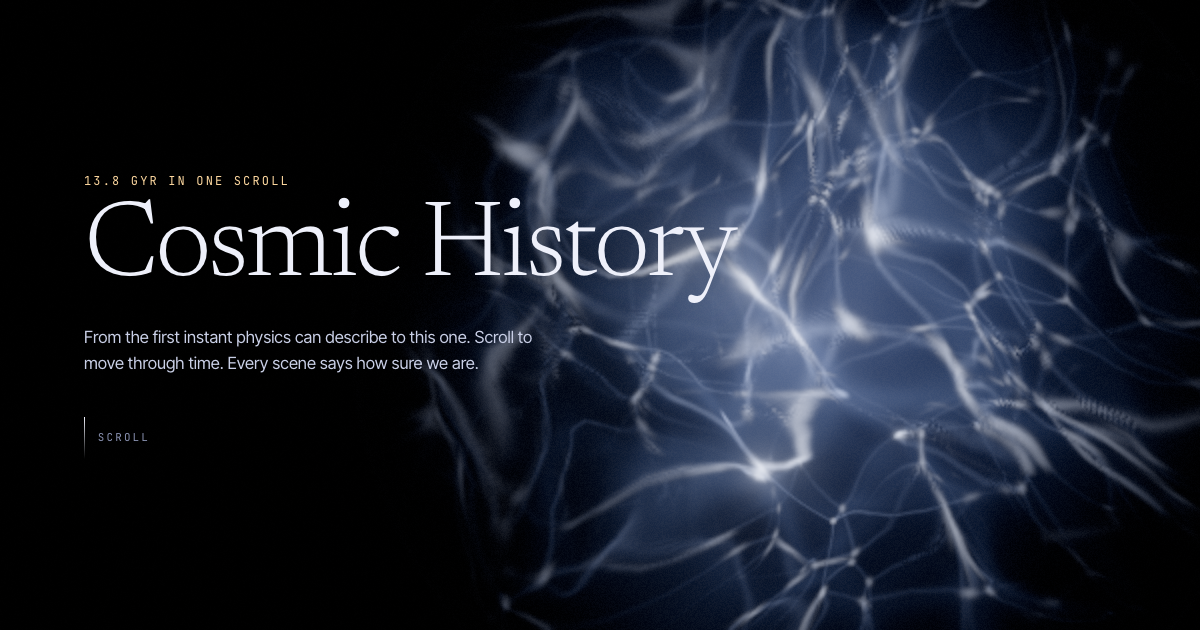
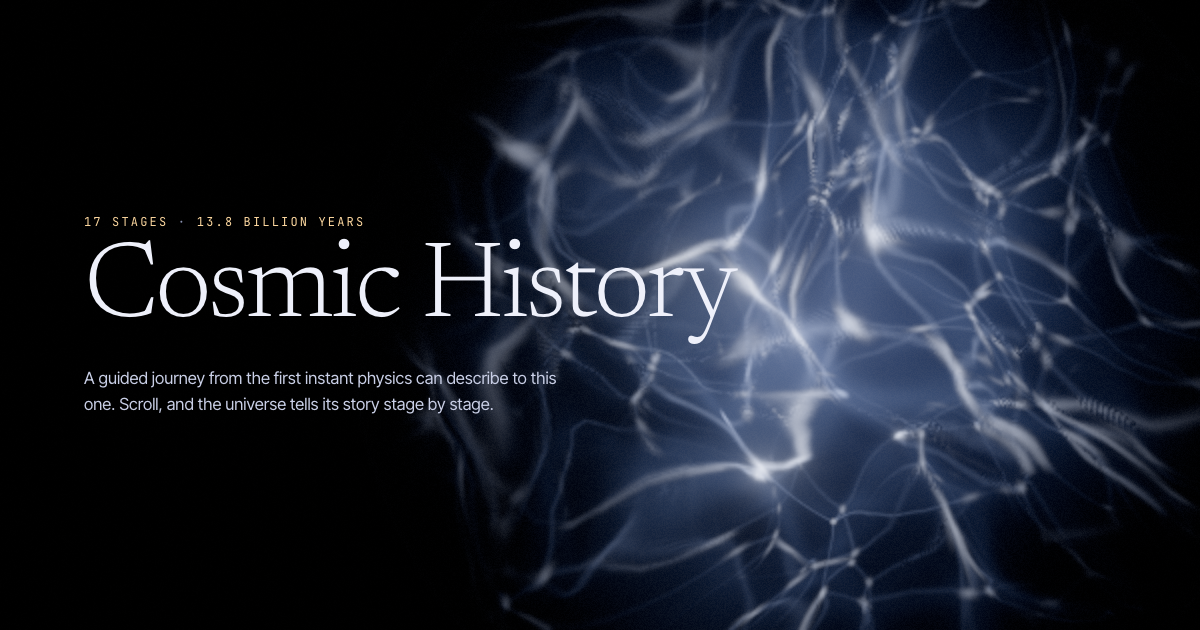
Deploy to cosmic-history.balian.dev: Workers static assets, full SEO/OG meta
- Production URL, robots index/follow, Open Graph and Twitter tags with image
  alt and type, WebSite JSON-LD, sitemap and robots pointing at balian.dev.
- Share image re-rendered from the new title card (hints hidden in capture).
- wrangler.toml: static assets + custom domain on the account that owns
  balian.dev; CSP allows the zone's Cloudflare Web Analytics beacon.

Changed region(s): [[0.0617, 0.2714, 0.6167, 0.6635], [0.555, 0.5127, 0.5858, 0.5429]]

diff --git a/src/data/site.ts b/src/data/site.ts
@@ -1,11 +1,14 @@
 // Site-wide copy and SEO.
 export const SITE = {
   name: 'Cosmic History',
-  title: 'Cosmic History — 13.8 billion years in one scroll',
+  url: 'https://cosmic-history.balian.dev',
+  title: 'Cosmic History — From the Big Bang to today, in 17 stages',
   description:
-    'A scroll-driven 3D journey from the Planck epoch to today. Every frame is computed from real cosmology, and every scene says how sure we are.',
+    'A guided 3D journey through 13.8 billion years, from the Big Bang to today. Scroll through 17 stages, each computed from real cosmology and explained as you go.',
   ogImage: '/og.png',
+  ogImageAlt: 'Cosmic History: the title card over a glowing web of primordial filaments.',
   themeColor: '#020205',
+  author: 'Balian Design',
 };
 
 export const ACCURACY_LABEL = {

diff --git a/DECISIONS.md b/DECISIONS.md
@@ -84,5 +84,7 @@ Before, a uniform offset shrank every coastline by the same distance, so low gro
 - **Dev-only routes**: `/dev/scenes` (smoke test: scrub, FPS, GPU memory, load/unload ×52 leak test with 2 warm-up cycles) and `/dev/field` (one slice of the field as ζ, δ, smoothed δ with peaks, and Zel'dovich particles — the traceability check for Phase 5) are injected only under `astro dev`; they are not in `dist/`.
 - **Stills and OG image** are rendered by the real renderer (`pnpm stills` → `public/stills/<chapter>.webp`, `public/og.png`) from a running dev or preview server. They are the no-GPU fallback and appear while a scene is still loading after a long jump.
 - **Fast jumps**: a chapter must be current for 150 ms before its scene initialises, so a nav jump across many chapters does not build every scene on the way.
-- **Accuracy notes** are clamped to three lines in the nav panel; the badge expands the full note.
 - **Planet positions** in the `now` scene follow the visitor's current date (stills drift slightly day to day).
+- **Hosting** (2026-11-07): https://cosmic-history.balian.dev, on the account that owns the `balian.dev` zone. HANDOFF asked for Cloudflare Pages, but wrangler 4.15x routes new Pages projects through Workers, so the site deploys as a Worker with static assets (`wrangler.toml` `[assets]`, `_headers` honoured). The custom domain is declared in `wrangler.toml` (`custom_domain = true`), so wrangler creates the DNS record and certificate. `workers.dev` and preview URLs are off so the canonical domain is the only copy.
+- **Web Analytics**: the `balian.dev` zone injects Cloudflare's analytics beacon; the CSP allows `static.cloudflareinsights.com` (script) and `cloudflareinsights.com` (connect).
+- **SEO**: title, description, canonical, `robots: index, follow`, full Open Graph + Twitter card (1200 × 630 `og.png` rendered from the title card), WebSite JSON-LD, sitemap and robots.txt pointing at the production domain.

diff --git a/CLAUDE.md b/CLAUDE.md
@@ -1,6 +1,6 @@
 # Cosmic History
 
-Scroll-driven 3D journey from the Planck epoch to today. Astro 7, vanilla TypeScript islands, three.js r186 WebGPU renderer with TSL shaders (automatic WebGL2 fallback), nanostores, Lenis. Static output on Cloudflare Pages. `HANDOFF.md` is the spec; `DECISIONS.md` logs deviations; `SCENES.md` is the scene authoring guide.
+Scroll-driven 3D journey from the Planck epoch to today. Astro 7, vanilla TypeScript islands, three.js r186 WebGPU renderer with TSL shaders (automatic WebGL2 fallback), nanostores, Lenis. Static output served by Cloudflare Workers static assets at https://cosmic-history.balian.dev (`pnpm deploy`). `HANDOFF.md` is the spec; `DECISIONS.md` logs deviations; `SCENES.md` is the scene authoring guide.
 
 ## Dev
 - `pnpm dev` (port 4340). Scene harness: `/dev/scenes/?scene=<id>&local=0.5` (slider, FPS, GPU memory, load/unload ×50 leak test).

diff --git a/README.md b/README.md
@@ -18,4 +18,4 @@ pnpm build        # static site in dist/
 Dev-only pages: `/dev/scenes/?scene=<id>&local=0.5` (scene smoke test) and `/dev/field/` (field traceability).
 Regenerate fallback stills and the OG image: start `pnpm dev`, then `pnpm stills -- --base http://localhost:4340`.
 
-Deploy (Cloudflare Pages): `pnpm deploy`. Note: the Planck CMB map is CC BY-NC 3.0 IGO (non-commercial); see DECISIONS.md.
+Live: https://cosmic-history.balian.dev. Deploy: `pnpm deploy` (builds, then `wrangler deploy`: Workers static assets on the Cloudflare account that owns `balian.dev`, custom domain attached by `wrangler.toml`). Note: the Planck CMB map is CC BY-NC 3.0 IGO (non-commercial); see DECISIONS.md.
